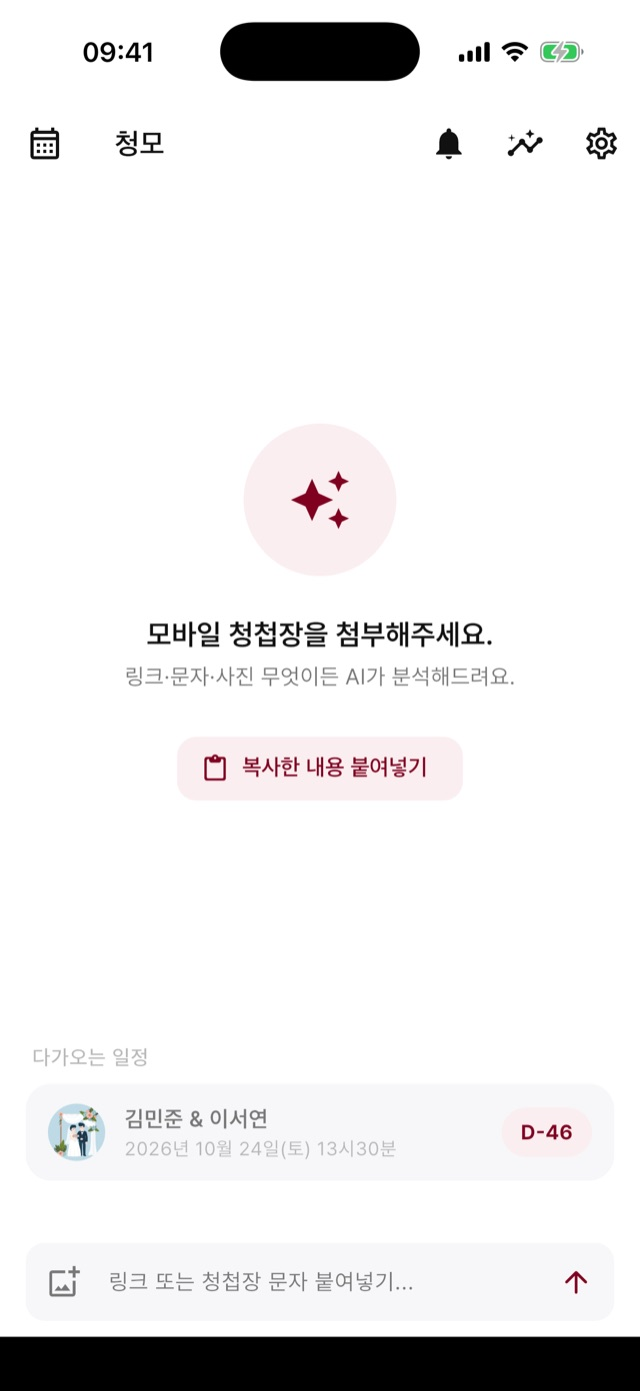
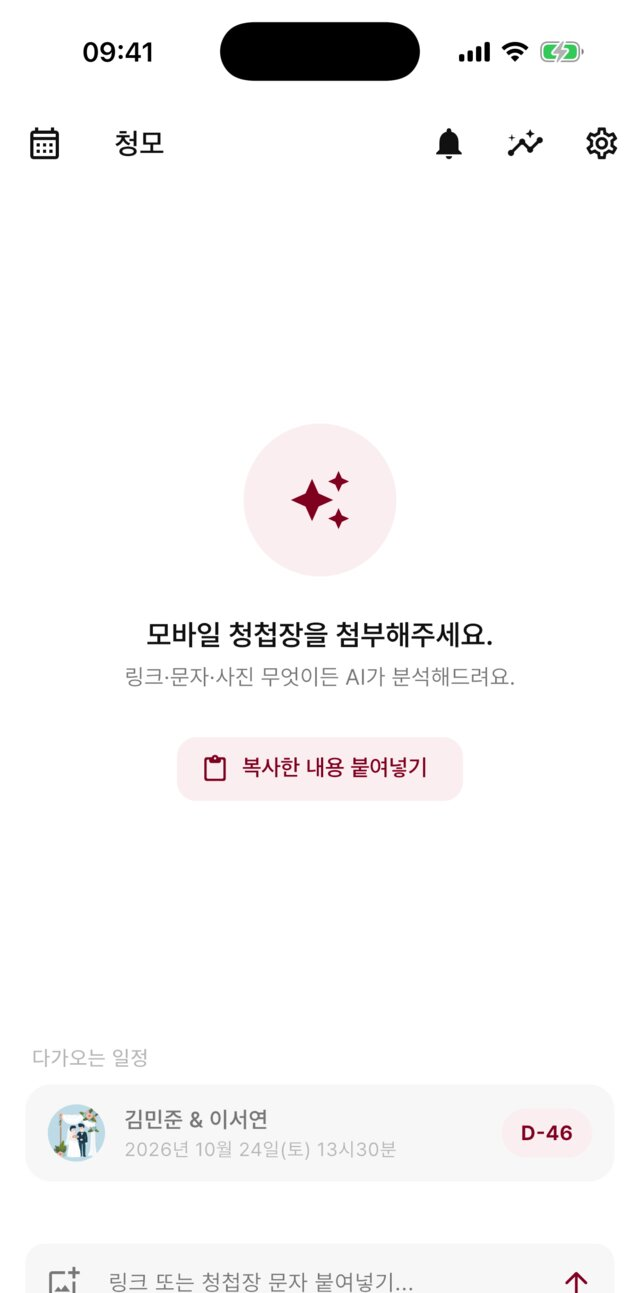
feat: de-template the landing page design
- Open the input cards with real artifacts (URL chip, Kakao-style
  bubble, tilted paper invitation) instead of emoji icons
- Replace the six-tile feature grid and screenshot strip with three
  alternating screenshot rows plus a one-line minor-features list
- Let the 85% stat carry the accuracy section, small stats beside it
- Drop the all-caps English eyebrows and the sparkle glyph
- Add a maker's note above the closing CTA
- Recrop screenshot assets top-anchored to remove the home-indicator
  band (ImageMagick; sips crops from center)

diff --git a/hosting/public/index.html b/hosting/public/index.html
@@ -205,33 +205,75 @@
     section.block { padding: 72px 0; }
     section.block.alt { background: var(--surface-muted); }
     .k { text-align: center; margin-bottom: 44px; }
-    .k .eyebrow { margin-bottom: 12px; }
     .k h2 { font-size: 30px; font-weight: 800; letter-spacing: -0.01em; }
     .k p { margin-top: 10px; color: var(--ink-2); font-size: 16px; }
 
     .paths { display: grid; grid-template-columns: repeat(3, 1fr); gap: 16px; }
     .path {
       background: var(--surface); border: 1px solid var(--line); border-radius: var(--radius);
-      padding: 26px 22px;
+      padding: 22px; overflow: hidden;
     }
-    .path .em { font-size: 30px; }
-    .path h3 { margin-top: 12px; font-size: 17px; font-weight: 800; }
+    .path h3 { margin-top: 18px; font-size: 17px; font-weight: 800; }
     .path p { margin-top: 6px; font-size: 14px; color: var(--ink-2); }
+    /* each card opens with the artifact itself, not an icon */
+    .art { height: 96px; display: flex; align-items: center; justify-content: center; }
+    .art-link {
+      display: inline-flex; align-items: center; gap: 8px;
+      background: var(--surface-muted); border: 1px solid var(--line);
+      border-radius: 999px; padding: 9px 16px; font-size: 13px; color: var(--ink-2);
+      font-weight: 600;
+    }
+    .art-link .dot { width: 8px; height: 8px; border-radius: 50%; background: var(--success); flex: none; }
+    .art-link u { text-decoration-color: var(--burgundy); text-underline-offset: 3px; }
+    .art-kakao { display: flex; align-items: flex-end; gap: 7px; }
+    .art-kakao .face { width: 28px; height: 28px; border-radius: 12px; background: var(--burgundy-100); flex: none; }
+    .art-kakao .bubble {
+      background: #fee500; color: #1d1d1f; border-radius: 14px 14px 14px 3px;
+      padding: 9px 13px; font-size: 12px; line-height: 1.5; max-width: 200px; text-align: left;
+      font-weight: 500;
+    }
+    .art-photo { position: relative; width: 78px; height: 96px; }
+    .art-photo .paper {
+      position: absolute; inset: 0; transform: rotate(-5deg);
+      background: var(--beige-100); border: 1px solid var(--line); border-radius: 10px;
+      display: flex; flex-direction: column; align-items: center; justify-content: center; gap: 7px;
+      box-shadow: 0 8px 18px rgba(0,0,0,.08);
+    }
+    .art-photo .paper i { display: block; height: 4px; border-radius: 2px; background: var(--line); width: 44px; }
+    .art-photo .paper i:first-child { width: 30px; background: var(--burgundy-200, var(--burgundy-100)); }
+    .art-photo .date {
+      position: absolute; right: -12px; bottom: 6px; transform: rotate(4deg);
+      background: var(--burgundy); color: #fff; font-size: 11px; font-weight: 800;
+      border-radius: 8px; padding: 4px 8px;
+    }
 
-    .feats { display: grid; grid-template-columns: repeat(3, 1fr); gap: 16px; }
-    .feat { background: var(--surface-muted); border-radius: var(--radius); padding: 24px 22px; }
-    section.block.alt .feat { background: var(--surface); border: 1px solid var(--line); }
-    .feat .em { font-size: 26px; }
-    .feat h3 { margin-top: 10px; font-size: 16px; font-weight: 800; }
-    .feat p { margin-top: 5px; font-size: 13.5px; color: var(--ink-2); }
+    /* alternating feature rows built on real screenshots */
+    .zig { display: grid; grid-template-columns: 1fr 1fr; gap: 48px; align-items: center; padding: 36px 0; }
+    .zig + .zig { border-top: 1px solid var(--line); }
+    .zig img { width: 250px; border-radius: 22px; border: 1px solid var(--line); box-shadow: 0 14px 36px rgba(0,0,0,.10); margin: 0 auto; }
+    .zig.flip .shotcell { order: 2; }
+    .zig h3 { font-size: 23px; font-weight: 800; letter-spacing: -0.01em; }
+    .zig .desc { margin-top: 10px; font-size: 15.5px; color: var(--ink-2); max-width: 400px; }
+    .zig .pt { margin-top: 14px; font-size: 14px; color: var(--ink-2); display: flex; flex-direction: column; gap: 7px; }
+    .zig .pt span::before { content: ""; display: inline-block; width: 5px; height: 5px; border-radius: 50%; background: var(--burgundy); margin: 0 9px 3px 1px; }
+    .minor {
+      margin-top: 40px; padding-top: 26px; border-top: 1px solid var(--line);
+      display: flex; flex-wrap: wrap; gap: 8px 26px; justify-content: center;
+      font-size: 14px; color: var(--ink-2);
+    }
+    .minor b { color: var(--ink); font-weight: 700; }
 
     /* numbers */
-    .stats-hero { display: grid; grid-template-columns: repeat(3, 1fr); gap: 16px; margin-bottom: 28px; }
+    /* one number carries the section; the rest stay supporting */
+    .stats-hero { display: grid; grid-template-columns: 1.35fr 1fr; grid-auto-rows: 1fr; gap: 16px; margin-bottom: 28px; }
     .stat {
       background: var(--surface); border: 1px solid var(--line); border-radius: var(--radius);
       padding: 24px 22px; text-align: center;
     }
-    .stat .v { font-size: 38px; font-weight: 800; color: var(--burgundy); letter-spacing: -0.02em; }
+    .stat.big { grid-row: 1 / 3; display: flex; flex-direction: column; justify-content: center; background: var(--surface-muted); border: 0; }
+    .stat.big .v { font-size: 96px; line-height: 1.05; }
+    .stat.big .m { font-size: 14px; max-width: 300px; margin: 6px auto 0; }
+    .stat .v { font-size: 34px; font-weight: 800; color: var(--burgundy); letter-spacing: -0.02em; }
     @media (prefers-color-scheme: dark) { .stat .v { color: #e0a8b2; } }
     .stat .l { margin-top: 4px; font-size: 14px; font-weight: 700; }
     .stat .m { margin-top: 2px; font-size: 12.5px; color: var(--ink-3); }
@@ -246,15 +288,11 @@
     .stats-foot a { color: var(--burgundy); font-weight: 700; }
     @media (prefers-color-scheme: dark) { .stats-foot a { color: #e0a8b2; } }
 
-    /* screenshots */
-    .shots { display: flex; gap: 18px; overflow-x: auto; padding: 8px 4px 20px; scroll-snap-type: x mandatory; }
-    .shots::-webkit-scrollbar { height: 6px; }
-    .shots::-webkit-scrollbar-thumb { background: var(--line); border-radius: 999px; }
-    .shot { flex: none; width: 224px; scroll-snap-align: center; }
-    .shot img { border-radius: 24px; border: 1px solid var(--line); box-shadow: 0 12px 32px rgba(0,0,0,.10); }
-    .shot figcaption { text-align: center; font-size: 13px; color: var(--ink-2); margin-top: 10px; font-weight: 600; }
-
     /* final cta */
+    .voice { padding: 76px 0; text-align: center; }
+    .voice .quote { font-size: 21px; font-weight: 700; line-height: 1.65; letter-spacing: -0.01em; }
+    .voice .who { margin-top: 14px; color: var(--ink-3); font-size: 14px; }
+
     .cta-final { text-align: center; padding: 88px 0; }
     .cta-final .icon { width: 84px; height: 84px; border-radius: 22px; margin: 0 auto 22px; box-shadow: 0 12px 30px rgba(128,0,32,.25); }
     .cta-final h2 { font-size: 32px; font-weight: 800; }
@@ -275,7 +313,13 @@
       .hero { padding-top: 40px; }
       .hero .wrap { grid-template-columns: 1fr; gap: 40px; }
       .demo-col { order: 2; }
-      .paths, .feats, .stats-hero { grid-template-columns: 1fr; }
+      .paths, .stats-hero { grid-template-columns: 1fr; }
+      .stat.big { grid-row: auto; }
+      .stat.big .v { font-size: 64px; }
+      .zig { grid-template-columns: 1fr; gap: 22px; padding: 28px 0; }
+      .zig.flip .shotcell { order: 0; }
+      .zig img { width: 210px; }
+      .voice .quote { font-size: 17px; }
       .topbar nav .hide-m { display: none; }
       section.block { padding: 56px 0; }
     }
@@ -302,7 +346,7 @@
 <section class="hero">
   <div class="wrap">
     <div>
-      <span class="eyebrow">✦ Play Store, App Store 정식 출시</span>
+      <span class="eyebrow">Play Store · App Store 정식 출시</span>
       <h1>청첩장을 붙여넣으면<br><span class="accent">끝나는</span> AI 경조사 비서</h1>
       <p class="sub">링크, 카톡 캡처, 안내 문자 - 받은 그대로 넣으세요. AI가 신랑·신부, 일시, 장소, 축의금 계좌까지 읽어 일정을 만들고, 축의금 액수도 추천해 드립니다.</p>
       <div class="stores" id="download">
@@ -396,45 +440,47 @@
 <section class="block alt" id="features">
   <div class="wrap">
     <div class="k rv">
-      <span class="eyebrow">INPUT</span>
       <h2>무엇을 받았든, 넣기만 하세요</h2>
       <p>모든 타입의 청첩장을 처리합니다. 캘린더에 직접 등록하는 일은 이제 없습니다.</p>
     </div>
     <div class="paths">
-      <div class="path rv"><span class="em">🔗</span><h3>모바일 청첩장 링크</h3><p>자체 크롤러가 벤더마다 제각각인 청첩장 페이지에서 본문을 추출해 AI에 전달합니다.</p></div>
-      <div class="path rv"><span class="em">💬</span><h3>안내 문자 · 카톡</h3><p>링크가 없어도 됩니다. 안내 문자를 붙여넣으면 텍스트만으로 일정을 만듭니다.</p></div>
-      <div class="path rv"><span class="em">📸</span><h3>캡처 · 종이 청첩장 사진</h3><p>카톡 캡처, 종이 청첩장 촬영본도 멀티모달 AI가 읽습니다. 공유 시트에서 바로 보내도 돼요.</p></div>
+      <div class="path rv">
+        <div class="art"><span class="art-link"><span class="dot"></span><u>mcard.wedding/minjun-seoyeon</u></span></div>
+        <h3>모바일 청첩장 링크</h3>
+        <p>자체 크롤러가 벤더마다 제각각인 청첩장 페이지에서 본문을 추출해 AI에 전달합니다.</p>
+      </div>
+      <div class="path rv">
+        <div class="art">
+          <div class="art-kakao">
+            <span class="face"></span>
+            <span class="bubble">저희 결혼합니다 💐<br>10월 24일 토요일 오후 1시 30분</span>
+          </div>
+        </div>
+        <h3>안내 문자 · 카톡</h3>
+        <p>링크가 없어도 됩니다. 안내 문자를 붙여넣으면 텍스트만으로 일정을 만듭니다.</p>
+      </div>
+      <div class="path rv">
+        <div class="art">
+          <div class="art-photo">
+            <div class="paper"><i></i><i></i><i></i></div>
+            <span class="date">10.24</span>
+          </div>
+        </div>
+        <h3>캡처 · 종이 청첩장 사진</h3>
+        <p>카톡 캡처, 종이 청첩장 촬영본도 멀티모달 AI가 읽습니다. 공유 시트에서 바로 보내도 돼요.</p>
+      </div>
     </div>
   </div>
 </section>
 
-<section class="block">
+<section class="block" id="numbers">
   <div class="wrap">
     <div class="k rv">
-      <span class="eyebrow">FEATURES</span>
-      <h2>저장 이후까지 챙기는 비서</h2>
-      <p>일정 등록은 시작일 뿐. 참석과 축의금, 그 이후의 기록까지 한 곳에서.</p>
-    </div>
-    <div class="feats">
-      <div class="feat rv"><span class="em">💸</span><h3>AI 축의금 추천</h3><p>관계·친밀도 메모에 내 기록 통계와 공개 설문 데이터를 근거로 금액과 이유를 제안합니다.</p></div>
-      <div class="feat rv"><span class="em">📊</span><h3>축의금 통계</h3><p>연도별·관계별로 낸 금액을 차트로. 경조사비 지출이 한눈에 잡힙니다.</p></div>
-      <div class="feat rv"><span class="em">📱</span><h3>홈 화면 위젯</h3><p>다가오는 예식의 D-day를 청첩장 사진과 함께. 자정마다 자동 갱신됩니다.</p></div>
-      <div class="feat rv"><span class="em">🔔</span><h3>전날 알림</h3><p>예식 하루 전에 알려드려요. 깜빡하고 못 가는 일이 없도록.</p></div>
-      <div class="feat rv"><span class="em">📆</span><h3>기기 캘린더 연동</h3><p>저장한 일정을 탭 한 번으로 기본 캘린더 앱에 등록합니다.</p></div>
-      <div class="feat rv"><span class="em">💳</span><h3>계좌 탭 복사</h3><p>양가 축의금 계좌를 자동 추출하고, 탭 한 번에 계좌번호가 복사됩니다.</p></div>
-    </div>
-  </div>
-</section>
-
-<section class="block alt" id="numbers">
-  <div class="wrap">
-    <div class="k rv">
-      <span class="eyebrow">MEASURED</span>
       <h2>증명된 안정성</h2>
       <p>실제 청첩장 벤더 유형 16종을 재현한 40건 평가셋과 자동 채점기를 직접 구축해 검증했습니다.</p>
     </div>
     <div class="stats-hero">
-      <div class="stat rv"><div class="v">85%</div><div class="l">핵심 필드 완전 정확도</div><div class="m">이름·일시·장소·계좌가 모두 맞아 수정 없이 저장되는 비율</div></div>
+      <div class="stat big rv"><div class="v">85%</div><div class="l">핵심 필드 완전 정확도</div><div class="m">이름·일시·장소·계좌가 모두 맞아 수정 없이 저장되는 비율</div></div>
       <div class="stat rv"><div class="v">40건</div><div class="l">자가 구축 평가셋</div><div class="m">벤더 유형 16종 재현 · 자동 채점 · 회귀 추적</div></div>
       <div class="stat rv"><div class="v">6초</div><div class="l">평균 분석 시간</div><div class="m">붙여넣기부터 일정 완성까지</div></div>
     </div>
@@ -448,19 +494,43 @@
   </div>
 </section>
 
-<section class="block">
+<section class="block alt">
   <div class="wrap">
     <div class="k rv">
-      <span class="eyebrow">SCREENS</span>
-      <h2>실제 앱 화면</h2>
+      <h2>저장 이후까지 챙기는 비서</h2>
+      <p>일정 등록은 시작일 뿐. 참석과 축의금, 그 이후의 기록까지 한 곳에서.</p>
     </div>
-    <div class="shots rv">
-      <figure class="shot"><img src="/assets/shot-home.jpg" alt="홈 - 청첩장 붙여넣기" loading="lazy"><figcaption>붙여넣으면 시작</figcaption></figure>
-      <figure class="shot"><img src="/assets/shot-result.jpg" alt="AI 분석 결과" loading="lazy"><figcaption>AI 분석 결과</figcaption></figure>
-      <figure class="shot"><img src="/assets/shot-detail.jpg" alt="일정 상세" loading="lazy"><figcaption>D-day와 계좌까지</figcaption></figure>
-      <figure class="shot"><img src="/assets/shot-calendar.jpg" alt="캘린더" loading="lazy"><figcaption>캘린더로 한눈에</figcaption></figure>
-      <figure class="shot"><img src="/assets/shot-list.jpg" alt="일정 리스트" loading="lazy"><figcaption>연간 축의금 합계</figcaption></figure>
+    <div class="zig rv">
+      <div class="shotcell"><img src="/assets/shot-detail.jpg" alt="일정 상세 - D-day, 장소, 축의금, 계좌" loading="lazy"></div>
+      <div>
+        <h3>축의금, AI에게 물어보세요</h3>
+        <p class="desc">관계와 친밀도 메모를 적으면, 내 과거 기록 통계와 공개 설문 데이터를 근거로 금액과 이유를 제안합니다.</p>
+        <div class="pt">
+          <span>참석 여부·낸 금액을 결혼식별로 기록</span>
+          <span>양가 계좌는 자동 추출, 탭 한 번에 복사</span>
+        </div>
+      </div>
     </div>
+    <div class="zig flip rv">
+      <div class="shotcell"><img src="/assets/shot-list.jpg" alt="일정 리스트 - 연간 축의금 합계" loading="lazy"></div>
+      <div>
+        <h3>낸 만큼 똑똑하게 기록하기</h3>
+        <p class="desc">올해 낸 축의금 합계와 연도별·관계별 통계를 차트로 봅니다. 경조사비 지출이 처음으로 한눈에 잡혀요.</p>
+      </div>
+    </div>
+    <div class="zig rv">
+      <div class="shotcell"><img src="/assets/shot-calendar.jpg" alt="캘린더 - 예식 일정 마커" loading="lazy"></div>
+      <div>
+        <h3>캘린더로 한눈에</h3>
+        <p class="desc">저장한 예식이 달력에 표시되고, 탭 한 번으로 기기 기본 캘린더에도 등록됩니다.</p>
+      </div>
+    </div>
+  </div>
+</section>
+
+<section class="voice">
+  <div class="wrap rv">
+    <p class="quote">"결혼식 직전 채팅방 올리면서 청첩장 찾다가 만들었습니다.<br>귀찮은 일정관리는 청모 앱에서."</p>
   </div>
 </section>
 
